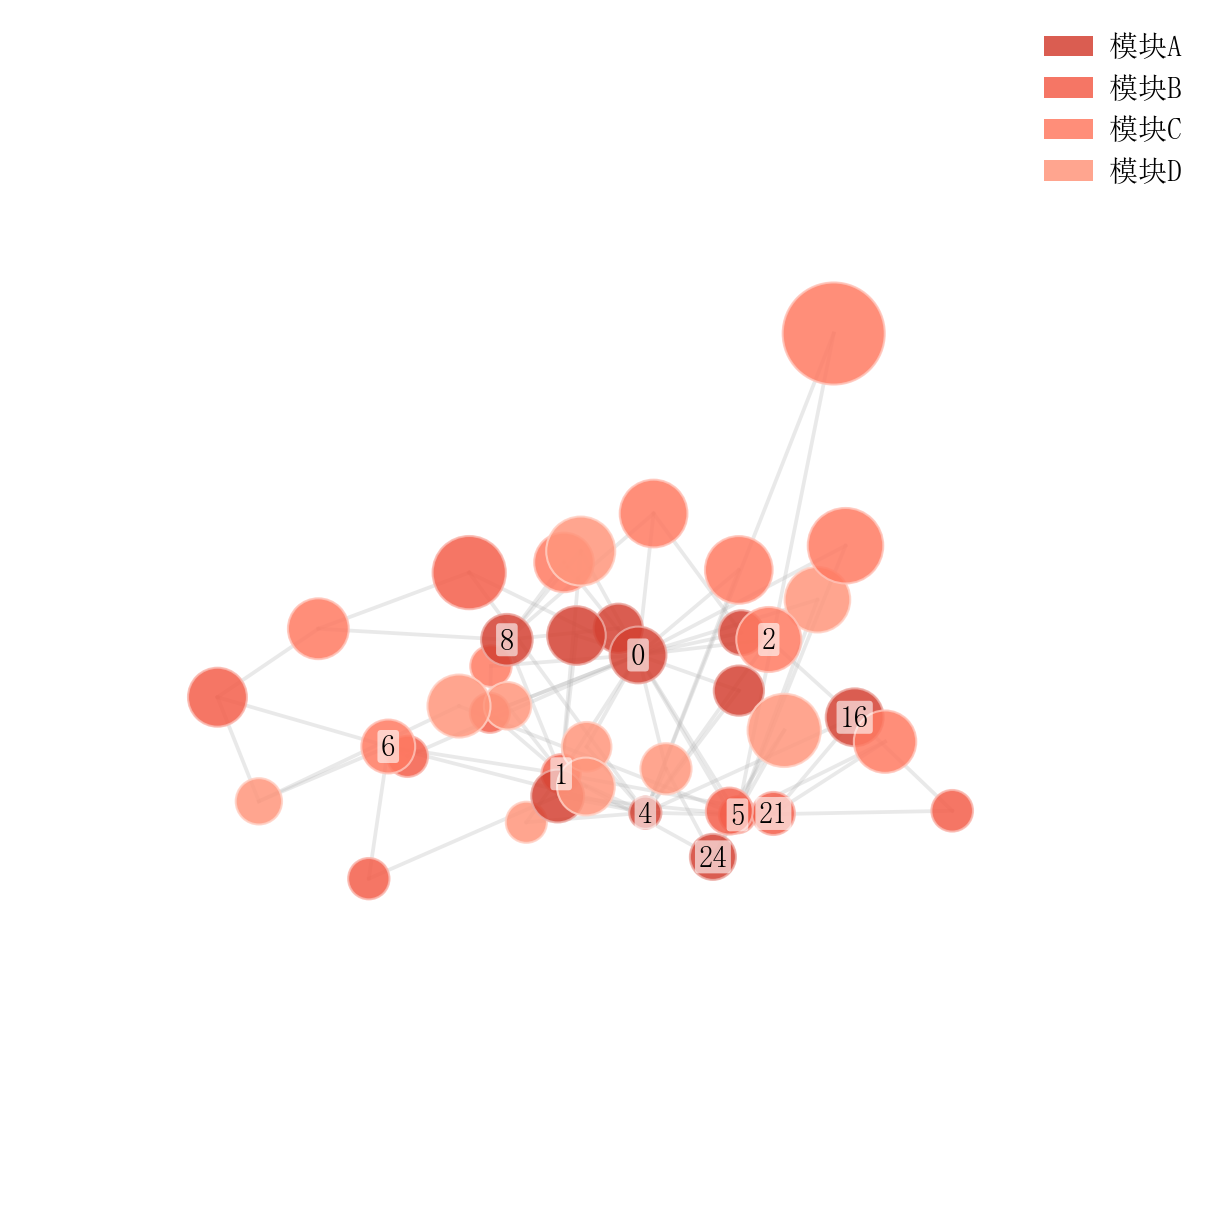
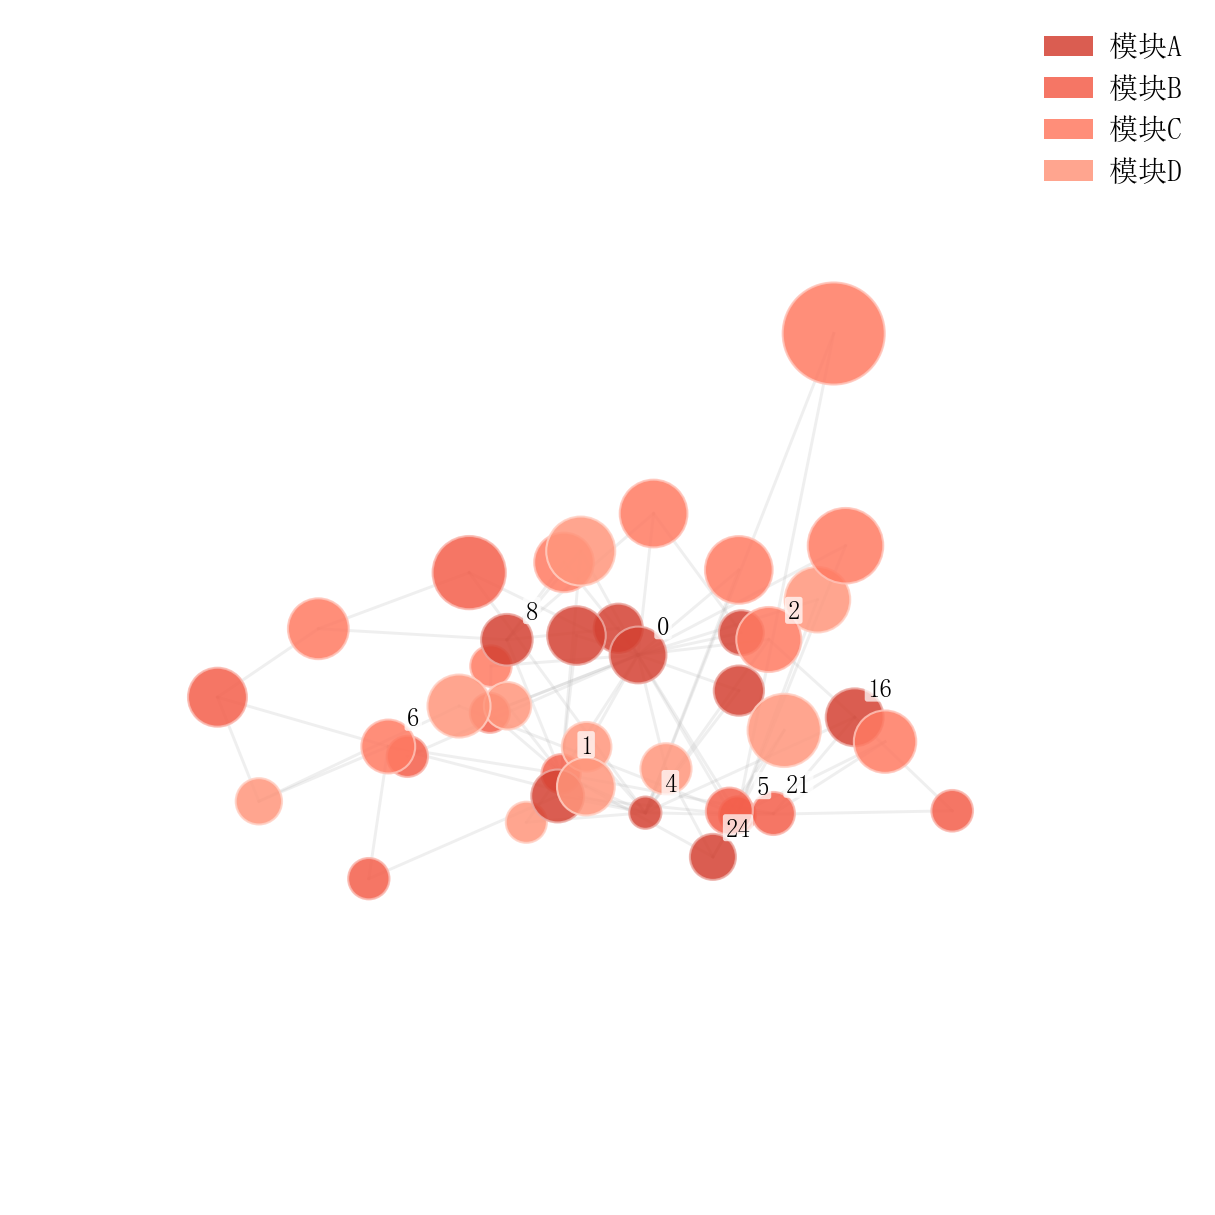
fix(network): avoid 3d label collisions

diff --git a/sciplot/_ext/network.py b/sciplot/_ext/network.py
@@ -486,8 +486,8 @@ def plot_network3d(
             [xyz[u][0], xyz[v][0]],
             [xyz[u][1], xyz[v][1]],
             [xyz[u][2], xyz[v][2]],
-            color="#B8B8B8", alpha=min(edge_alpha, 0.3),
-            linewidth=min(edge_width, 0.9), zorder=1,
+            color="#B8B8B8", alpha=min(edge_alpha, 0.22),
+            linewidth=min(edge_width, 0.7), zorder=1,
         )
 
     xs = [xyz[n][0] for n in G.nodes()]
@@ -517,6 +517,12 @@ def plot_network3d(
     scatter_kwargs.update(kwargs)
     ax.scatter(xs, ys, zs, **scatter_kwargs)
 
+    # 视角必须在屏幕空间标签布局之前固定；3D -> 2D 投影取决于 elev/azim。
+    if view is not None:
+        if len(view) != 2:
+            raise ValueError(f"view 必须是 (elev, azim) 二元组，实际值: {view!r}")
+        ax.view_init(elev=float(view[0]), azim=float(view[1]))
+
     # 标签（top-N 或全部）
     label_nodes: Optional[set] = None
     if isinstance(labels, int) and not isinstance(labels, bool):
@@ -526,23 +532,7 @@ def plot_network3d(
     elif labels is True:
         label_nodes = None
 
-    if label_nodes is not None or labels is True:
-        font_family = _get_label_font_family()
-        fontsize = plt.rcParams.get("font.size", 9) - 1
-        for n in G.nodes():
-            if label_nodes is not None and n not in label_nodes:
-                continue
-            ax.text(
-                xyz[n][0], xyz[n][1], xyz[n][2], str(n),
-                fontsize=fontsize, fontfamily=font_family,
-                ha="center", va="center", zorder=5,
-                bbox=dict(
-                    boxstyle="round,pad=0.12", facecolor="white",
-                    edgecolor="none", alpha=0.6,
-                ),
-            )
-
-    # 连续着色 colorbar / 分类图例
+    # 连续着色 colorbar / 分类图例先创建；它们是随后标签布局需要避开的真实障碍物。
     if continuous_info is not None and show_colorbar:
         cmap, norm = continuous_info
         sm = plt.cm.ScalarMappable(cmap=cmap, norm=norm)
@@ -558,13 +548,99 @@ def plot_network3d(
             Patch(facecolor=c, label=str(v), alpha=node_alpha)
             for v, c in categorical_colors.items()
         ]
-        ax.legend(handles=handles, loc="upper right", frameon=False)
+        legend = ax.legend(handles=handles, loc="upper right", frameon=False)
+    else:
+        legend = None
+
+    # 标签不能直接压在 3D 节点中心。先用最终视角把节点投影到屏幕平面，
+    # 再用 2D Annotation + renderer bbox 逐个避让。top-N 的数量语义保持不变，
+    # 但静态科研图中标签不再因透视投影挤成一团。
+    if label_nodes is not None or labels is True:
+        from mpl_toolkits.mplot3d import proj3d
+
+        font_family = _get_label_font_family()
+        fontsize = max(6.0, float(plt.rcParams.get("font.size", 9)) - 2.0)
+        candidates = [
+            n for n in G.nodes()
+            if label_nodes is None or n in label_nodes
+        ]
+        candidates.sort(key=lambda n: (G.degree(n), str(n)), reverse=True)
+
+        fig.canvas.draw()
+        get_renderer = getattr(fig.canvas, "get_renderer", None)
+        if get_renderer is None:
+            raise RuntimeError("当前 Matplotlib canvas 不支持 renderer，无法完成 3D 标签布局")
+        renderer = get_renderer()
+        axes_bbox = ax.get_window_extent(renderer=renderer)
+        legend_bbox = (
+            legend.get_window_extent(renderer=renderer).expanded(1.03, 1.06)
+            if legend is not None else None
+        )
+        placed_bboxes: List[Any] = []
+        offsets = (
+            (6, 7), (7, -7), (-6, 7), (-7, -7),
+            (12, 0), (-12, 0), (0, 13), (0, -13),
+            (16, 9), (16, -9), (-16, 9), (-16, -9),
+        )
+
+        for n in candidates:
+            x2, y2, _ = proj3d.proj_transform(*xyz[n], ax.get_proj())
+            accepted = None
+            fallback = None
+            fallback_overlap = float("inf")
+            for dx, dy in offsets:
+                ann = ax.annotate(
+                    str(n), xy=(x2, y2), xycoords="data",
+                    xytext=(dx, dy), textcoords="offset points",
+                    fontsize=fontsize, fontfamily=font_family,
+                    ha="center", va="center", zorder=6,
+                    annotation_clip=True,
+                    bbox=dict(
+                        boxstyle="round,pad=0.10", facecolor="white",
+                        edgecolor="none", alpha=0.72,
+                    ),
+                )
+                box = ann.get_window_extent(renderer=renderer).expanded(1.04, 1.08)
+                inside = (
+                    box.x0 >= axes_bbox.x0 + 2
+                    and box.x1 <= axes_bbox.x1 - 2
+                    and box.y0 >= axes_bbox.y0 + 2
+                    and box.y1 <= axes_bbox.y1 - 2
+                )
+                collisions = [prev for prev in placed_bboxes if box.overlaps(prev)]
+                hits_legend = legend_bbox is not None and box.overlaps(legend_bbox)
+                if inside and not collisions and not hits_legend:
+                    accepted = (ann, box)
+                    break
+
+                # 保留重叠面积最小的候选作兜底，保证 labels=N 仍实际显示 N 个标签。
+                overlap = 0.0
+                for prev in collisions:
+                    overlap += max(0.0, min(box.x1, prev.x1) - max(box.x0, prev.x0)) * max(
+                        0.0, min(box.y1, prev.y1) - max(box.y0, prev.y0)
+                    )
+                if hits_legend and legend_bbox is not None:
+                    overlap += max(0.0, min(box.x1, legend_bbox.x1) - max(box.x0, legend_bbox.x0)) * max(
+                        0.0, min(box.y1, legend_bbox.y1) - max(box.y0, legend_bbox.y0)
+                    )
+                if not inside:
+                    overlap += 1e6
+                if overlap < fallback_overlap:
+                    if fallback is not None:
+                        fallback[0].remove()
+                    fallback = (ann, box)
+                    fallback_overlap = overlap
+                else:
+                    ann.remove()
+
+            if accepted is not None:
+                if fallback is not None and fallback[0] is not accepted[0]:
+                    fallback[0].remove()
+                placed_bboxes.append(accepted[1])
+            elif fallback is not None:
+                placed_bboxes.append(fallback[1])
 
     ax.set_axis_off()
-    if view is not None:
-        if len(view) != 2:
-            raise ValueError(f"view 必须是 (elev, azim) 二元组，实际值: {view!r}")
-        ax.view_init(elev=float(view[0]), azim=float(view[1]))
     if title:
         ax.set_title(title)
 

diff --git a/tests/unit/test_network3d_communities.py b/tests/unit/test_network3d_communities.py
@@ -81,6 +81,41 @@ def test_network3d_top_n_labels(karate, cleanup_figures):
     assert len(texts) == 3
 
 
+def test_network3d_top_labels_avoid_screen_overlap(cleanup_figures):
+    """top-N 标签应按最终 3D 视角投影到屏幕后避让，而不是堆在节点中心。"""
+    graph = nx.barabasi_albert_graph(40, 2, seed=42)
+    nx.set_node_attributes(
+        graph, {n: f"g{n % 4}" for n in graph.nodes()}, "grp"
+    )
+    result = sp.plot_network3d(
+        graph,
+        node_color_by="grp",
+        labels=10,
+        view=(22, 50),
+        show_legend=True,
+    )
+    result.fig.canvas.draw()
+    get_renderer = getattr(result.fig.canvas, "get_renderer")
+    renderer = get_renderer()
+    texts = [t for t in result.ax.texts if t.get_text()]
+    assert len(texts) == 10
+
+    boxes = [t.get_window_extent(renderer=renderer).expanded(1.01, 1.03) for t in texts]
+    for i, box_a in enumerate(boxes):
+        for box_b in boxes[i + 1:]:
+            assert not box_a.overlaps(box_b), "Network3D top-N 标签发生屏幕空间重叠"
+
+    legend = result.ax.get_legend()
+    assert legend is not None
+    legend_box = legend.get_window_extent(renderer=renderer)
+    assert all(not box.overlaps(legend_box) for box in boxes)
+
+
+def test_network3d_view_validation(karate, cleanup_figures):
+    with pytest.raises(ValueError, match="view"):
+        sp.plot_network3d(karate, view=(20,))
+
+
 def test_network3d_no_labels(karate, cleanup_figures):
     result = sp.plot_network3d(karate, labels=False)
     assert len(result.ax.texts) == 0

diff --git a/CHANGELOG.md b/CHANGELOG.md
@@ -30,6 +30,9 @@
   并补齐 `min_font` / `max_font` 校验与 Circle kwargs 覆盖语义。
 - 修复 `plot_volcano()` 顶部自动标注只按数据坐标“错开”、却仍会与图例/相邻文字/轴框重叠的问题；
   现在按真实渲染后的 bounding box 逐个试放，并避免 `kwargs` 中 `c` / `alpha` 与火山图语义参数冲突。
+- 修复 `plot_network3d()` 将标签直接贴在 3D 节点中心导致透视投影后集中重叠的问题；
+  现在先固定最终视角，再将 top-N 节点投影到屏幕平面并按 renderer bbox 避让，同时降低边线默认视觉权重，
+  使节点、标签和社区层级在静态科研图中更清楚。
 
 ### Changed
 
@@ -43,8 +46,8 @@
 ### Tests
 
 - 新增辅助 Axes 审计、UpSet 元数据、Alluvial 闭合路径、出版样式基线、多类图表 palette 隔离，
-  Treemap 边框/字号、Sunburst 层级拓扑/环方向，以及 Packed Bubble / Volcano 像素级文字布局回归测试。
-- 最新全量验证：`1567 passed`；Ruff 全绿；Mypy 对 33 个源码文件无错误；47 个 showcase 脚本全部重跑并目视检查 50 张输出图。
+  Treemap 边框/字号、Sunburst 层级拓扑/环方向，以及 Packed Bubble / Volcano / Network3D 像素级文字布局回归测试。
+- 最新全量验证：`1569 passed`；Ruff 全绿；Mypy 对 33 个源码文件无错误；47 个 showcase 脚本全部重跑并目视检查 50 张输出图。
 
 ---
 

diff --git a/.claude/skills/sciplot/SKILL.md b/.claude/skills/sciplot/SKILL.md
@@ -5,7 +5,7 @@ description: >-
   统计图、多面板图、期刊投稿图，或需要优化现有 matplotlib 科研图时触发；也适用于
   “这些数据怎么可视化”“把图做得像顶刊”“提升论文图质量”等未指定图型的任务。
   优先使用项目内 sciplot API 完成静态科研可视化；明确要求交互式网页图、地图或动画时不触发。
-version: 2.0.1
+version: 2.0.2
 author: rippleshe
 user-invocable: true
 allowed-tools: "Read Write Edit Bash Glob Grep"
@@ -164,7 +164,7 @@ fig, axes = sp.figure_panels(2, 2, venue="nature", panel_labels=True)
 - **雷达**：只用于少量同尺度维度；多组填充 alpha 要低，轮廓承担主要比较。
 - **Sankey/Alluvial**：流带宽度是真实量；颜色应跟随源/类别语义，流多时先过滤视觉噪音。
 - **Treemap/Sunburst**：面积/角度承担数值，颜色用于层级或分组，不再额外编码无关变量。
-- **网络图**：先减少边噪音和标签密度，再谈配色；社区结构应该一眼可辨。
+- **网络图**：先减少边噪音和标签密度，再谈配色；3D 标签要在最终视角投影后检查屏幕空间重叠，社区结构应该一眼可辨。
 - **3D**：只有数据本身存在第三空间维度或曲面结构时使用，普通分类比较不要 3D。
 
 ## 6. Showcase 与包开发时的额外要求
